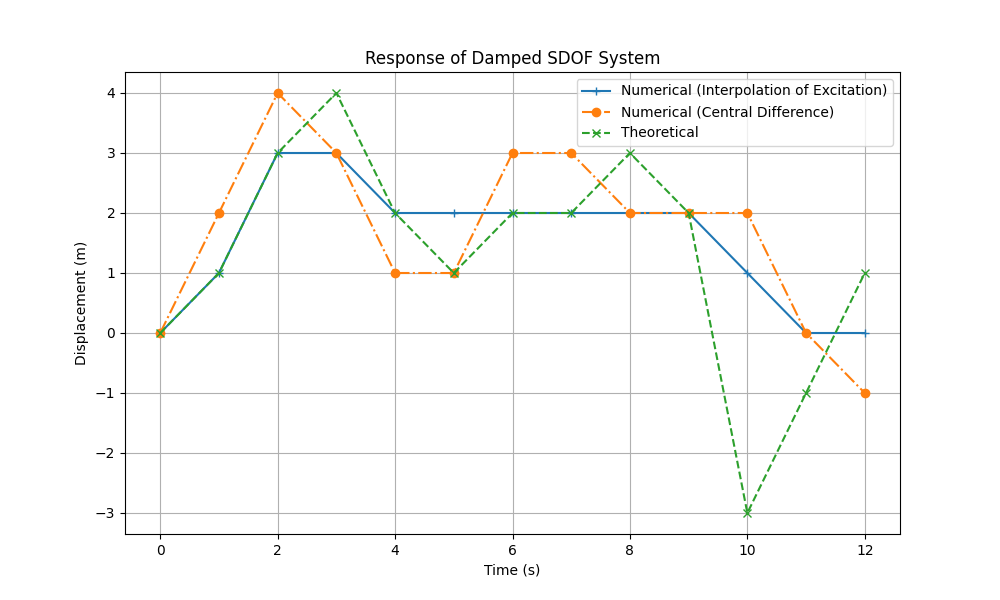
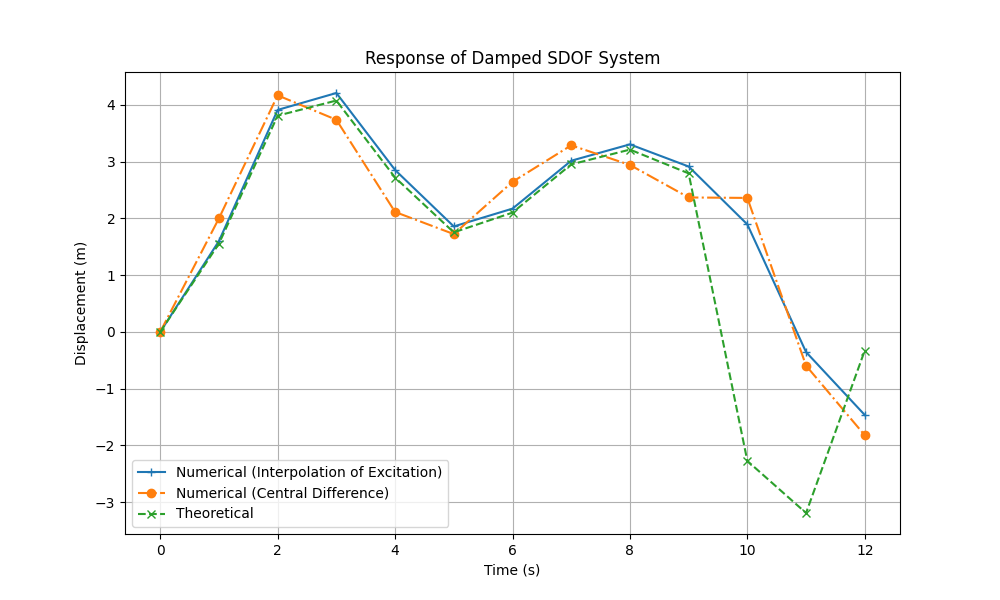
Assignment 2 Completed

diff --git a/Assignment_2/Question3.py b/Assignment_2/Question3.py
@@ -19,15 +19,15 @@ force = np.zeros_like(t)
 force[t <= td] = F0
 
 # Central Difference Method
-p = np.zeros_like(t)
-x = np.zeros_like(t)
+p = []
+x = []
 u_prev = 2
-x[0] = 0
-p[0] = force[0] - 400*u_prev + 250*x[0]
-x[1] = p[0]/600
+x.append(0)
+p.append(force[0] - 400*u_prev + 250*x[0])
+x.append(p[0]/600)
 for i in range(1, len(t)-1):
-    p[i] = force[i] - 400*x[i-1] + 250*x[i]
-    x[i+1] = p[i]/600
+    p.append(force[i] - 400*x[i-1] + 250*x[i])
+    x.append(p[i]/600)
 
 
 # Interpolation of Excitation Method
@@ -39,25 +39,26 @@ A1 = -0.94
 B1 = 0.168
 C1 = 0.0005
 D1 = 0.0008
-u = np.zeros_like(t)
-v = np.zeros_like(t)
-
-x[0] = v[0] = 0
+u = []
+v = []
+u.append(0)
+v.append(0)
 
 for i in range(0, len(t)-1):
-    u[i+1] = A*u[i] + B*v[i] + C*force[i] + D*force[i+1]
-    v[i+1] = A1*u[i] + B1*v[i] + C1*force[i] + D1*force[i+1]
-    
+    u.append(A*u[i] + B*v[i] + C*force[i] + D*force[i+1])
+    v.append(A1*u[i] + B1*v[i] + C1*force[i] + D1*force[i+1])
+
 # Theoretical Displacement
-theoretical_disp = np.zeros_like(t)
+theoretical_disp = []
 for i, ti in enumerate(t):
     when = 0
     if ti <= td:
-        theoretical_disp[i]= (F0/k)*(1 - np.exp(-zeta*Wn*ti)*(np.cos(Wd*ti) + (zeta/np.sqrt(1-zeta**2))*np.sin(Wd*ti)))
+        theoretical_disp.append((F0/k)*(1 - np.exp(-zeta*Wn*ti)*(np.cos(Wd*ti) + (zeta/np.sqrt(1-zeta**2))*np.sin(Wd*ti))))
         if ti == td:
             when = i
+            print(theoretical_disp[when])
     else:
-        theoretical_disp[i] = np.exp((-c*(ti-td))/(2*m)) * (theoretical_disp[when]*np.cos(Wd*(ti-td)) + (1/Wd)*(-5.392 + (c*theoretical_disp[when]/(2*m)))*np.sin(Wd*(ti-td)))
+        theoretical_disp.append(np.exp(-0.2*(ti-td)) * (2.79*np.cos(Wd*(ti-td)) - 4.028*np.sin(Wd*(ti-td))))
 
 plt.figure(figsize=(10, 6))
 plt.plot(t, u, label='Numerical (Interpolation of Excitation)', marker='+')

diff --git a/Assignment_2/Question_3.md b/Assignment_2/Question_3.md
@@ -60,4 +60,5 @@ $$ x(t) = e^{\frac{-c(t-t_d)}{2m}}[x^s(t_d)cos\omega_d(t-t_d) + \frac{1}{\omega_
 \hat{x^s}(t_d) = \frac{F_0}{k} \cdot \frac{e^{-\zeta\omega_nt_d}*\omega_d*sin(\omega_dt_d)}{1 - \zeta^2} = -5.392
 ```
 
+
 ![plot](./Question3_plot.png)
